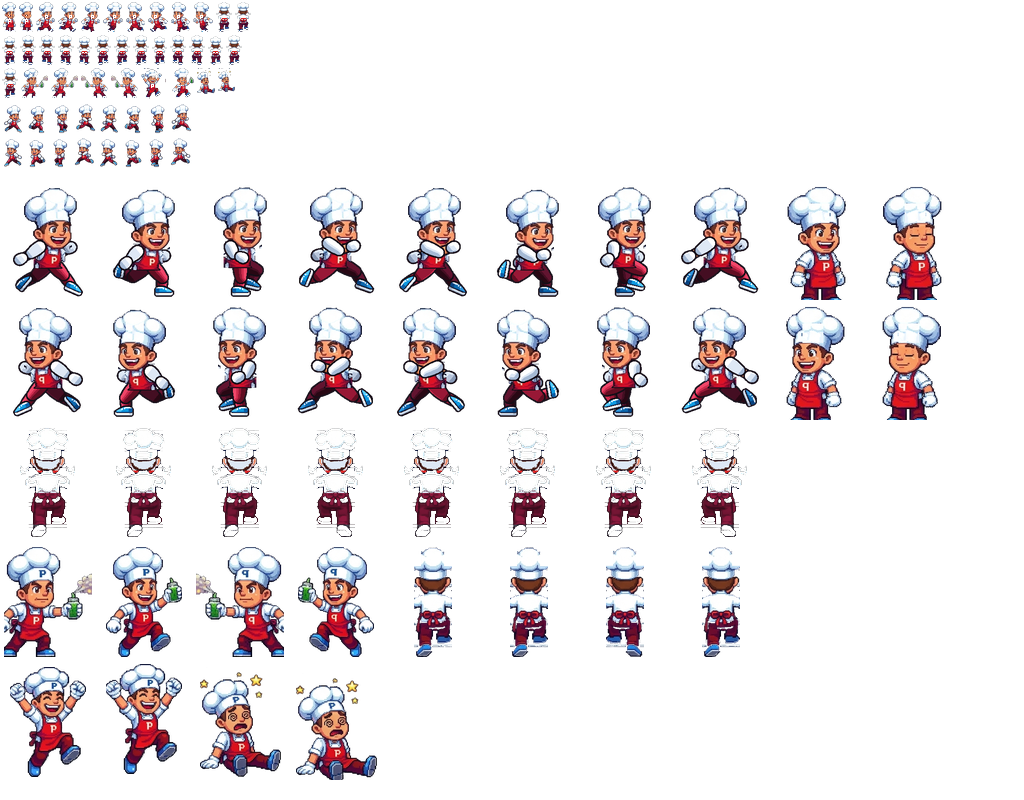
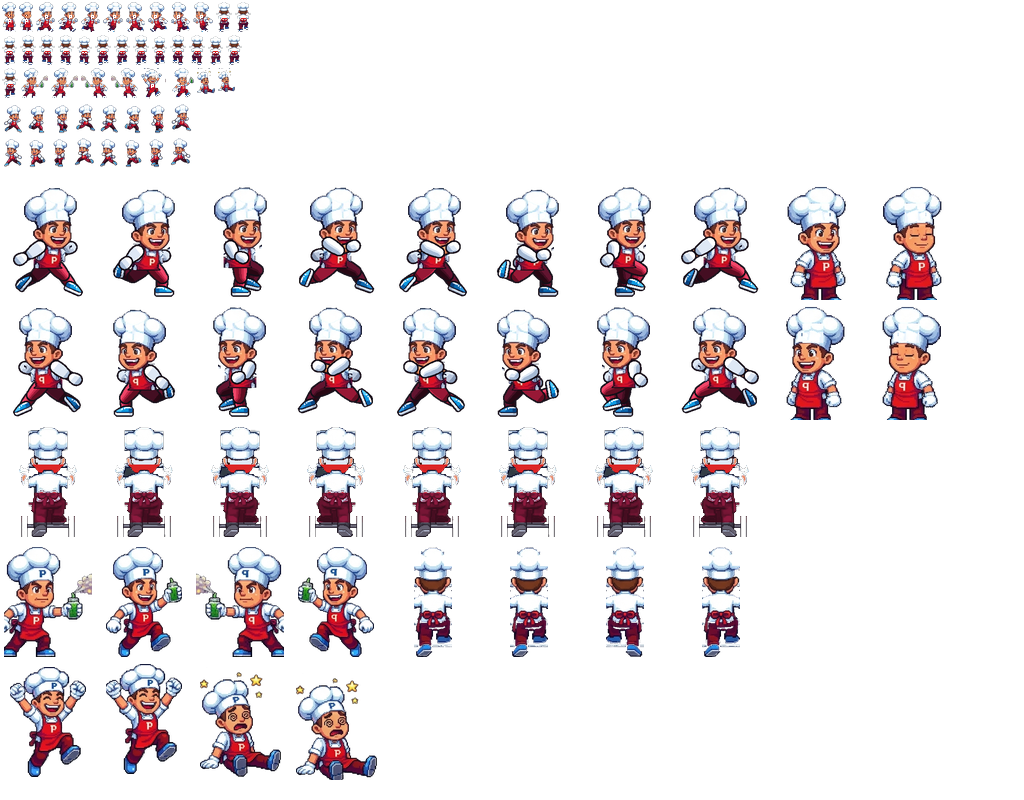
fix(sprites): solidificacion total y eliminacion de partes borradas en escalada v112

Changed region(s): [[0.4062, 0.5312, 0.75, 0.6875], [0.0312, 0.5312, 0.375, 0.6875]]

diff --git a/js/sprites.js b/js/sprites.js
@@ -37,13 +37,13 @@ class SpriteManager {
 
   initAtlas() {
     this.atlasImg = new Image();
-    this.atlasImg.src = 'assets/chef_atlas.png?v=111';
+    this.atlasImg.src = 'assets/chef_atlas.png?v=112';
     this.atlasLoaded = false;
     this.atlasImg.onload = () => {
       this.atlasLoaded = true;
     };
     this.atlasImg.onerror = () => {
-      this.atlasImg.src = 'assets/peter_atlas.png?v=102';
+      this.atlasImg.src = 'assets/peter_atlas.png?v=112';
     };
   }
 
